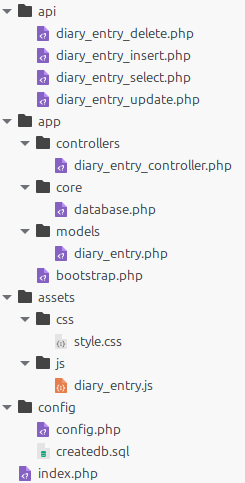
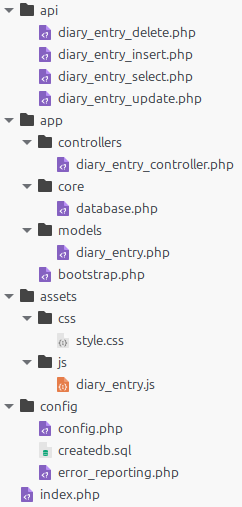
update 2025-11-01 13:26 CET

diff --git a/assets/js/diary_entry.js b/assets/js/diary_entry.js
@@ -22,7 +22,7 @@ document.addEventListener("DOMContentLoaded", () => {
             console.log("Success/new_diary_entry_form: " + JSON.stringify(data));
             if (data.success) {
                 userForm.reset();
-                load_diary_entries();
+                load_diary_entries(document.getElementById("filter").value);
             } else {
                 alert("Error: " + (data.error || "Unknown error"));
             }
@@ -35,9 +35,10 @@ document.addEventListener("DOMContentLoaded", () => {
 
 // create diary entry table
 
-async function load_diary_entries() {
+async function load_diary_entries(filter = "") {
+    console.log('FILTER:' + filter)
     try {
-        const res = await fetch(`${BASE_URL}/api/diary_entry_select.php`);
+        const res = await fetch(`${BASE_URL}/api/diary_entry_select.php?filter=${encodeURIComponent(filter)}`);
         entries = await res.json();
         console.log("Success/diary_entry_select: " + JSON.stringify(entries));
     }
@@ -81,7 +82,7 @@ async function load_diary_entries() {
                 console.log("Success/diary_entry_update: " + JSON.stringify(data));
                 if(!data.success) 
                     alert("Update Error: " + (data.error || "Unknown error"));
-                load_diary_entries();
+                load_diary_entries(document.getElementById("filter").value);
             }
             catch (err) {
                 alert("Update Error: " + err.message);
@@ -101,7 +102,7 @@ async function load_diary_entries() {
                 console.log("Success/diary_entry_delete: " + JSON.stringify(data));
                 if(!data.success) 
                     alert("Delete Error: " + (data.error || "Unknown error"));
-                load_diary_entries();
+                load_diary_entries(document.getElementById("filter").value);
             }
             catch (err) {
                 alert("Delete Error: " + err.message);
@@ -110,5 +111,15 @@ async function load_diary_entries() {
         tbody.appendChild(clone);
     });
 } // load_diary_entries
+
+document.getElementById("filter").addEventListener("input", e => {
+    const filterValue = e.target.value.trim();
+    load_diary_entries(filterValue);
+});
+
+document.getElementById("clearFilterBtn").addEventListener("click", e => {
+    document.getElementById("filter").value = '';
+    load_diary_entries();
+});
 
 load_diary_entries();

diff --git a/assets/css/style.css b/assets/css/style.css
@@ -1,7 +1,8 @@
 body {
   font-family: 'Noto Sans', sans-serif;
+  font-size: 13pt;
   background: #f4f4f4;
-  padding: 40px;
+  padding: 20px;
 }
 
 form {
@@ -53,10 +54,27 @@ th, td {
 th { background: #007bff; color: white; }
 
 textarea {
+  font-family: 'Noto Sans', sans-serif;
+  font-size: 13pt;
   width: 95%;
   height: 100px;
   padding: 8px;
   margin: 6px 0px 12px 0;
   border: 1px solid #ccc;
   border-radius: 6px;
+}
+
+#filterdiv {
+  background: #fff;
+  padding: 25px;
+  border-radius: 12px;
+  max-width: 420px;
+  margin: auto;
+  box-shadow: 0 4px 10px rgba(0,0,0,0.1);
+}
+
+#filter {
+  font-size: 13pt;
+  margin: 6px 0px 12px 0;
+  width:300px;
 }

diff --git a/app/models/diary_entry.php b/app/models/diary_entry.php
@@ -1,6 +1,7 @@
 <?php
 namespace app\models;
 use app\core\database;
+require_once __DIR__ . '/../../config/error_reporting.php';
 
 class diary_entry extends database {
 
@@ -10,20 +11,29 @@ class diary_entry extends database {
         return $stmt->execute();
     }
 
-    public function select(){
-        $res = $this->conn->query("SELECT deid,dedate,detext FROM diaryentries ORDER BY deid DESC");
+    public function select($filter = '') {
+        if ($filter) {
+            $stmt = $this->conn->prepare("SELECT deid,dedate,detext FROM diaryentries WHERE dedate LIKE ? OR detext LIKE ? ORDER BY deid DESC");
+            $param1 = '%' . $filter . '%';
+            $param2 = '%' . $filter . '%';
+            $stmt->bind_param("ss",$param1,$param2);
+            $stmt->execute();
+            $res = $stmt->get_result();
+        } else {
+            $res = $this->conn->query("SELECT deid,dedate,detext FROM diaryentries ORDER BY deid DESC");
+        }
         return $res->fetch_all(MYSQLI_ASSOC);
     }
 
     public function update($id,$text){
         $stmt = $this->conn->prepare("UPDATE diaryentries SET detext=? WHERE deid=?");
-        $stmt->bind_param("si",$text,$id);
+        $stmt->bind_param("si", $text, $id);
         return $stmt->execute();
     }
 
     public function delete($id){
         $stmt = $this->conn->prepare("DELETE FROM diaryentries WHERE deid=?");
-        $stmt->bind_param("i",$id);
+        $stmt->bind_param("i", $id);
         return $stmt->execute();
     }
 

diff --git a/app/controllers/diary_entry_controller.php b/app/controllers/diary_entry_controller.php
@@ -1,6 +1,7 @@
 <?php
 namespace app\controllers;
 use app\models\diary_entry;
+require_once __DIR__ . '/../../config/error_reporting.php';
 
 class diary_entry_controller {
 
@@ -14,11 +15,11 @@ class diary_entry_controller {
         return $this->diary_entry->insert($text);
     }
 
-    public function select(){
-        return $this->diary_entry->select();
+    public function select($filter=""){
+        return $this->diary_entry->select($filter);
     }
 
-    public function update($id,$text){
+    public function update($id, $text){
         return $this->diary_entry->update($id,$text);
     }
 

diff --git a/api/diary_entry_select.php b/api/diary_entry_select.php
@@ -1,11 +1,14 @@
 <?php
+require_once __DIR__ . '/../config/error_reporting.php';
 require_once __DIR__ . '/../app/bootstrap.php';
 use app\controllers\diary_entry_controller;
 
 header('Content-Type: application/json');
 
+$filter = $_GET['filter'] ?? '';
 $controller = new diary_entry_controller();
-$entries = $controller->select();
+$entries = $controller->select($filter);
+
 echo json_encode($entries);
 
-// Testen: curl -v -X POST http://..../api/diary_entry_select.php
+// Testen: curl -v -X GET http://..../api/diary_entry_select.php?filter=...

diff --git a/index.php b/index.php
@@ -7,7 +7,7 @@
 </head>
 <body>
 
-<h1>My Diary</h1>
+<h1>My Little Diary</h1>
 
 <h2>New Entry</h2>
 <form id="new_diary_entry_form">
@@ -16,6 +16,13 @@
 </form>
 
 <h2>Diary Entries</h2>
+
+<div id="filterdiv">
+<label for="filter">Filter: </label>
+<input type="text" id="filter">
+<button id="clearFilterBtn">❌</button>
+</div>
+
 <table border="1">
     <thead>
         <tr><th>Date/Time</th><th>Entry (Click to update)</th><th>Actions</th></tr>

diff --git a/api/diary_entry_delete.php b/api/diary_entry_delete.php
@@ -1,4 +1,5 @@
 <?php
+require_once __DIR__ . '/../config/error_reporting.php';
 require_once __DIR__ . '/../app/bootstrap.php';
 use app\controllers\diary_entry_controller;
 

diff --git a/api/diary_entry_insert.php b/api/diary_entry_insert.php
@@ -1,4 +1,5 @@
 <?php
+require_once __DIR__ . '/../config/error_reporting.php';
 require_once __DIR__ . '/../app/bootstrap.php';
 use app\controllers\diary_entry_controller;
 

diff --git a/api/diary_entry_update.php b/api/diary_entry_update.php
@@ -1,4 +1,5 @@
 <?php
+require_once __DIR__ . '/../config/error_reporting.php';
 require_once __DIR__ . '/../app/bootstrap.php';
 use app\controllers\diary_entry_controller;
 

diff --git a/app/core/database.php b/app/core/database.php
@@ -1,5 +1,6 @@
 <?php
 namespace app\core;
+require_once __DIR__ . '/../../config/error_reporting.php';
 
 class database {
     protected $conn;

diff --git a/app/bootstrap.php b/app/bootstrap.php
@@ -1,4 +1,5 @@
 <?php
+require_once __DIR__ . '/../config/error_reporting.php';
 
 spl_autoload_register(
     function ($class) {

diff --git a/config/error_reporting.php b/config/error_reporting.php
@@ -1,0 +1,2 @@
+<?php
+// error_reporting(E_ALL); ini_set('display_errors', 'on');
